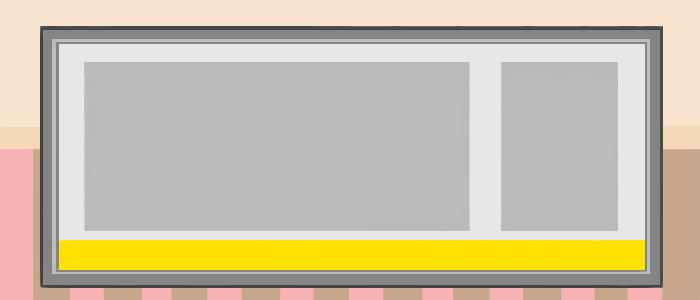
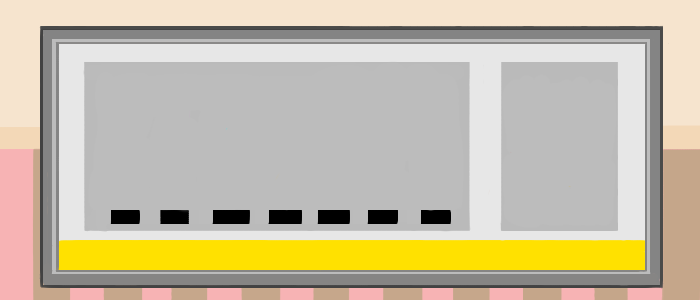
sizes

Changed region(s): [[0.3, 0.69, 0.57, 0.75], [0.15, 0.69, 0.27, 0.75], [0.6, 0.69, 0.66, 0.75]]

diff --git a/BananaSplitPlugin/Source/ControlsGUI.cpp b/BananaSplitPlugin/Source/ControlsGUI.cpp
@@ -21,6 +21,12 @@ ControlsGUI::ControlsGUI(MidiSynthAudioProcessor& p) : audioProcessor(p)
     addAndMakeVisible(gain);
     gainAttachment = std::make_unique<juce::AudioProcessorValueTreeState::SliderAttachment>(audioProcessor.apvt, "Gain", gain);
     
+    gainLabel.setText("Gain", juce::dontSendNotification);
+    gainLabel.setJustificationType(juce::Justification::centred);
+    gainLabel.setColour(juce::Label::textColourId, juce::Colours::white);
+    gainLabel.setFont(juce::Font (10.0f, juce::Font::plain));
+    addAndMakeVisible(gainLabel);
+    
     attack.setSliderStyle(juce::Slider::SliderStyle::LinearVertical);
     attack.setTextBoxStyle(juce::Slider::TextEntryBoxPosition::NoTextBox, true, 0, 0);
     attack.setColour(juce::Slider::thumbColourId, juce::Colours::hotpink);
@@ -28,6 +34,12 @@ ControlsGUI::ControlsGUI(MidiSynthAudioProcessor& p) : audioProcessor(p)
     attack.setColour(juce::Slider::trackColourId, juce::Colours::deeppink);
     addAndMakeVisible(attack);
     attackAttachment = std::make_unique<juce::AudioProcessorValueTreeState::SliderAttachment>(audioProcessor.apvt, "Attack", attack);
+    
+    attackLabel.setText("Attack", juce::dontSendNotification);
+    attackLabel.setJustificationType(juce::Justification::centred);
+    attackLabel.setColour(juce::Label::textColourId, juce::Colours::white);
+    attackLabel.setFont(juce::Font (10.0f, juce::Font::plain));
+    addAndMakeVisible(attackLabel);
     
     decay.setSliderStyle(juce::Slider::SliderStyle::LinearVertical);
     decay.setTextBoxStyle(juce::Slider::TextEntryBoxPosition::NoTextBox, true, 0, 0);
@@ -37,6 +49,12 @@ ControlsGUI::ControlsGUI(MidiSynthAudioProcessor& p) : audioProcessor(p)
     addAndMakeVisible(decay);
     decayAttachment = std::make_unique<juce::AudioProcessorValueTreeState::SliderAttachment>(audioProcessor.apvt, "Decay", decay);
     
+    decayLabel.setText("Decay", juce::dontSendNotification);
+    decayLabel.setJustificationType(juce::Justification::centred);
+    decayLabel.setColour(juce::Label::textColourId, juce::Colours::white);
+    decayLabel.setFont(juce::Font (10.0f, juce::Font::plain));
+    addAndMakeVisible(decayLabel);
+    
     sustain.setSliderStyle(juce::Slider::SliderStyle::LinearVertical);
     sustain.setTextBoxStyle(juce::Slider::TextEntryBoxPosition::NoTextBox, true, 0, 0);
     sustain.setColour(juce::Slider::thumbColourId, juce::Colours::orange);
@@ -44,6 +62,12 @@ ControlsGUI::ControlsGUI(MidiSynthAudioProcessor& p) : audioProcessor(p)
     sustain.setColour(juce::Slider::trackColourId, juce::Colours::darkorange);
     addAndMakeVisible(sustain);
     sustainAttachment = std::make_unique<juce::AudioProcessorValueTreeState::SliderAttachment>(audioProcessor.apvt, "Sustain", sustain);
+    
+    sustainLabel.setText("Sustain", juce::dontSendNotification);
+    sustainLabel.setJustificationType(juce::Justification::centred);
+    sustainLabel.setColour(juce::Label::textColourId, juce::Colours::white);
+    sustainLabel.setFont(juce::Font (10.0f, juce::Font::plain));
+    addAndMakeVisible(sustainLabel);
     
     release.setSliderStyle(juce::Slider::SliderStyle::LinearVertical);
     release.setTextBoxStyle(juce::Slider::TextEntryBoxPosition::NoTextBox, true, 0, 0);
@@ -53,6 +77,12 @@ ControlsGUI::ControlsGUI(MidiSynthAudioProcessor& p) : audioProcessor(p)
     addAndMakeVisible(release);
     releaseAttachment = std::make_unique<juce::AudioProcessorValueTreeState::SliderAttachment>(audioProcessor.apvt, "Release", release);
     
+    releaseLabel.setText("Release", juce::dontSendNotification);
+    releaseLabel.setJustificationType(juce::Justification::centred);
+    releaseLabel.setColour(juce::Label::textColourId, juce::Colours::white);
+    releaseLabel.setFont(juce::Font (10.0f, juce::Font::plain));
+    addAndMakeVisible(releaseLabel);
+    
     fmFreq.setSliderStyle(juce::Slider::SliderStyle::LinearVertical);
     fmFreq.setTextBoxStyle(juce::Slider::TextEntryBoxPosition::NoTextBox, true, 0, 0);
     fmFreq.setColour(juce::Slider::thumbColourId, juce::Colours::purple);
@@ -61,6 +91,12 @@ ControlsGUI::ControlsGUI(MidiSynthAudioProcessor& p) : audioProcessor(p)
     addAndMakeVisible(fmFreq);
     fmFreqAttachment = std::make_unique<juce::AudioProcessorValueTreeState::SliderAttachment>(audioProcessor.apvt, "FmFreq", fmFreq);
     
+    fmFreqLabel.setText("FM Freq", juce::dontSendNotification);
+    fmFreqLabel.setJustificationType(juce::Justification::centred);
+    fmFreqLabel.setColour(juce::Label::textColourId, juce::Colours::white);
+    fmFreqLabel.setFont(juce::Font (10.0f, juce::Font::plain));
+    addAndMakeVisible(fmFreqLabel);
+    
     fmDepth.setSliderStyle(juce::Slider::SliderStyle::LinearVertical);
     fmDepth.setTextBoxStyle(juce::Slider::TextEntryBoxPosition::NoTextBox, true, 0, 0);
     fmDepth.setColour(juce::Slider::thumbColourId, juce::Colours::yellow);
@@ -68,6 +104,12 @@ ControlsGUI::ControlsGUI(MidiSynthAudioProcessor& p) : audioProcessor(p)
     fmDepth.setColour(juce::Slider::trackColourId, juce::Colours::yellow);
     addAndMakeVisible(fmDepth);
     fmDepthAttachment = std::make_unique<juce::AudioProcessorValueTreeState::SliderAttachment>(audioProcessor.apvt, "FmDepth", fmDepth);
+    
+    fmDepthLabel.setText("FM Depth", juce::dontSendNotification);
+    fmDepthLabel.setJustificationType(juce::Justification::centred);
+    fmDepthLabel.setColour(juce::Label::textColourId, juce::Colours::white);
+    fmDepthLabel.setFont(juce::Font (10.0f, juce::Font::plain));
+    addAndMakeVisible(fmDepthLabel);
 }
 
 ControlsGUI::~ControlsGUI(){}
@@ -79,13 +121,24 @@ void ControlsGUI::paint (juce::Graphics& g)
 
 void ControlsGUI::resized()
 {
-    gain.   setBoundsRelative(0.05f, 0.5f - (0.9f/2.0f), 0.1f, 0.9f);
+    gain.           setBoundsRelative(0.06f, 0.5f - (0.9f/2.0f), 0.1f, 0.8f);
+    gainLabel.      setBoundsRelative(0.058f, 0.865f, 0.1f, 0.1f);
     
-    attack. setBoundsRelative(0.185f, 0.5f - (0.9f/2.0f), 0.1f, 0.9f);
-    decay.  setBoundsRelative(0.32f, 0.5f - (0.9f/2.0f), 0.1f, 0.9f);
-    sustain.setBoundsRelative(0.455f, 0.5f - (0.9f/2.0f), 0.1f, 0.9f);
-    release.setBoundsRelative(0.59f, 0.5f - (0.9f/2.0f), 0.1f, 0.9f);
+    attack.         setBoundsRelative(0.185f, 0.5f - (0.9f/2.0f), 0.1f, 0.8f);
+    attackLabel.    setBoundsRelative(0.185f, 0.865f, 0.1f, 0.1f);
     
-    fmFreq. setBoundsRelative(0.725f, 0.5f - (0.9f/2.0f), 0.1f, 0.9f);
-    fmDepth.setBoundsRelative(0.86f, 0.5f - (0.9f/2.0f), 0.1f, 0.9f);
+    decay.          setBoundsRelative(0.33f, 0.5f - (0.9f/2.0f), 0.1f, 0.8f);
+    decayLabel.     setBoundsRelative(0.33f, 0.865f, 0.1f, 0.1f);
+    
+    sustain.        setBoundsRelative(0.475f, 0.5f - (0.9f/2.0f), 0.1f, 0.8f);
+    sustainLabel.   setBoundsRelative(0.475f, 0.865f, 0.1f, 0.1f);
+    
+    release.        setBoundsRelative(0.597f, 0.5f - (0.9f/2.0f), 0.1f, 0.8f);
+    releaseLabel.   setBoundsRelative(0.595f, 0.865f, 0.1f, 0.1f);
+    
+    fmFreq.         setBoundsRelative(0.725f, 0.5f - (0.9f/2.0f), 0.1f, 0.8f);
+    fmFreqLabel.    setBoundsRelative(0.725f, 0.865f, 0.1f, 0.1f);
+    
+    fmDepth.        setBoundsRelative(0.86f, 0.5f - (0.9f/2.0f), 0.1f, 0.8f);
+    fmDepthLabel.   setBoundsRelative(0.86f, 0.865f, 0.1f, 0.1f);
 }

diff --git a/BananaSplitPlugin/Source/ControlsGUI.h b/BananaSplitPlugin/Source/ControlsGUI.h
@@ -27,24 +27,31 @@ private:
     MidiSynthAudioProcessor& audioProcessor;
     
     juce::Slider gain;
+    juce::Label gainLabel;
     std::unique_ptr<juce::AudioProcessorValueTreeState::SliderAttachment> gainAttachment;
     
     juce::Slider attack;
+    juce::Label attackLabel;
     std::unique_ptr<juce::AudioProcessorValueTreeState::SliderAttachment> attackAttachment;
     
     juce::Slider decay;
+    juce::Label decayLabel;
     std::unique_ptr<juce::AudioProcessorValueTreeState::SliderAttachment> decayAttachment;
     
     juce::Slider sustain;
+    juce::Label sustainLabel;
     std::unique_ptr<juce::AudioProcessorValueTreeState::SliderAttachment> sustainAttachment;
     
     juce::Slider release;
+    juce::Label releaseLabel;
     std::unique_ptr<juce::AudioProcessorValueTreeState::SliderAttachment> releaseAttachment;
     
     juce::Slider fmFreq;
+    juce::Label fmFreqLabel;
     std::unique_ptr<juce::AudioProcessorValueTreeState::SliderAttachment> fmFreqAttachment;
     
     juce::Slider fmDepth;
+    juce::Label fmDepthLabel;
     std::unique_ptr<juce::AudioProcessorValueTreeState::SliderAttachment> fmDepthAttachment;
     
     JUCE_DECLARE_NON_COPYABLE_WITH_LEAK_DETECTOR (ControlsGUI)
